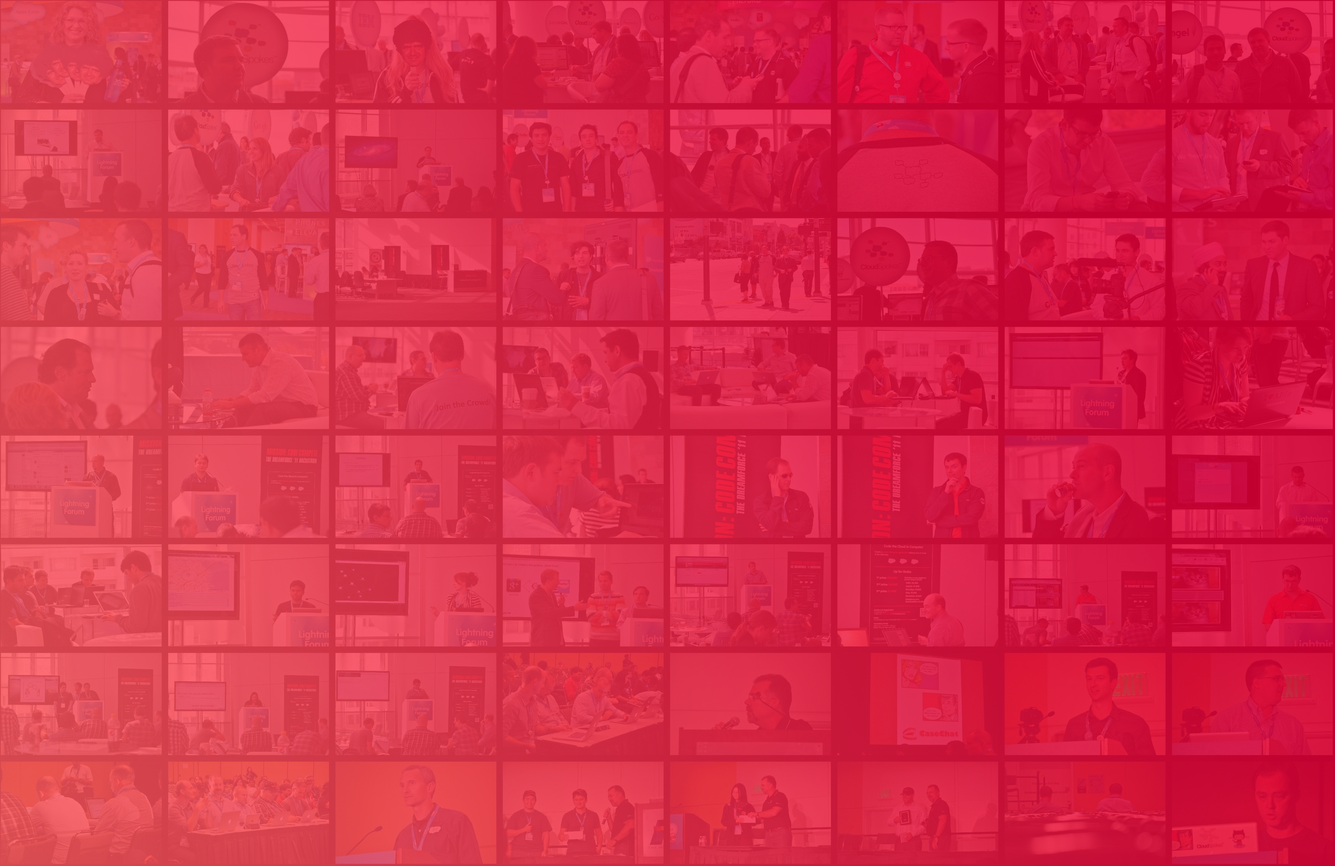
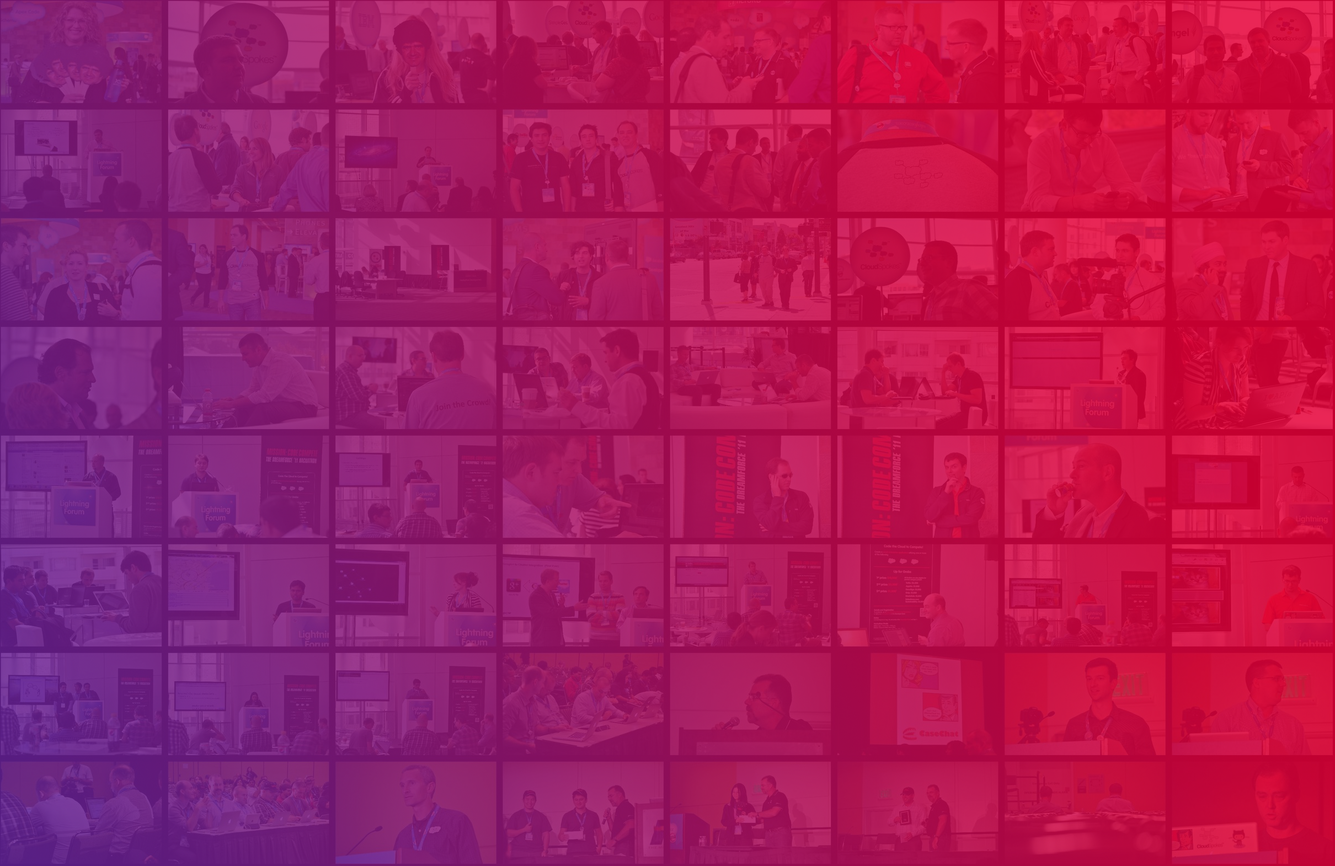
copy and style fixes

diff --git a/app/assets/stylesheets/landing-page.css.scss b/app/assets/stylesheets/landing-page.css.scss
@@ -25,6 +25,12 @@ body {
 
 section {
   position: relative;
+  padding: 40px;
+  box-shadow: 0 4px 8px rgba(0,0,0,0.2);
+
+  h2 {
+    margin-bottom: -20px;
+  }
 }
 
 section.white {
@@ -32,43 +38,72 @@ section.white {
 }
 
 section.black {
+  background: url('/images/shattered.gif');
   background-color: $black;
+  border-top: 2px solid #000;
+  border-bottom: 2px solid #000;
 }
+
 .centered {
   text-align: center;
 }
 
 .img-offset {
-  margin-top: calc(50%);
-  width: 90%;
-}
-
-.icon {
-  font-size: 115px;
-  color: $red;
-  margin: 20px 0;
-}
-
-.expert {
+  margin-top: calc(35%);
   width: 80%;
 }
 
-input {
-  width: 100%;
-  border: none;
-  border-bottom: 1px solid #fff;
-  background: none;
-  font-family: "Raleway", sans-serif;
-  color: #fff;
-  font-size: 36px;
-  font-weight: 700;
-  height: 80px;
-  margin-bottom: 40px;
+.experts {
+  .expert-col {
+    padding: 20px;
+  }
 
-  &:focus {
-    outline: none;
+  .expert {
+    width: 80%;
+    margin-bottom: 20px;
+  }
+
+  p {
+    font-size: 18px;
+    font-weight: 300;
   }
 }
+
+section.lead-capture {
+  padding-bottom: 80px;
+
+  h1 {
+    margin-bottom: 10px;
+  }
+
+}
+
+.form {
+  margin-top: 40px;
+
+  input {
+    width: 100%;
+    border: none;
+    border-bottom: 1px solid #fff;
+    background: none;
+    font-family: "Raleway", sans-serif;
+    color: #fff;
+    font-size: 32px;
+    font-weight: 700;
+    height: 60px;
+    margin-bottom: 30px;
+
+    &:focus {
+      outline: none;
+    }
+  }
+
+  .button {
+    margin-top: 40px;
+    display: inline-block;
+  }
+}
+
 
 ::-webkit-input-placeholder {
    color: $blue;

diff --git a/app/assets/stylesheets/theme-red.css.scss b/app/assets/stylesheets/theme-red.css.scss
@@ -1,6 +1,8 @@
 $red: #E60038;
 $black: #2e2f33;
 $blue: #9bf0e1;
+$purple: #843cd1;
+// $purple: #5e239d;
 
 h1 {
   font-family: "Raleway", sans-serif;
@@ -12,6 +14,7 @@ h2 {
   font-family: "Raleway", sans-serif;
   font-size: 48px;
   color: $red;
+  font-weight: 800;
 }
 
 h3 {
@@ -35,8 +38,12 @@ p {
   margin-top: 10px;
 }
 
-h2.white, h3.white, p.white {
+h2.white, h3.white, h4.white, p.white {
   color: #fff;
+}
+
+h2.purple, h3.purple, h4.purple {
+  color: $purple;
 }
 
 h3.blue {
@@ -83,7 +90,7 @@ h2.black {
 
   &:hover {
     background-color: #fff;
-    color: #333;
+    color: $purple;
     transition: 0.2s;
   }
 }
